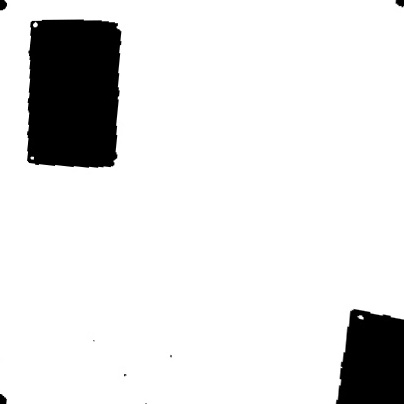
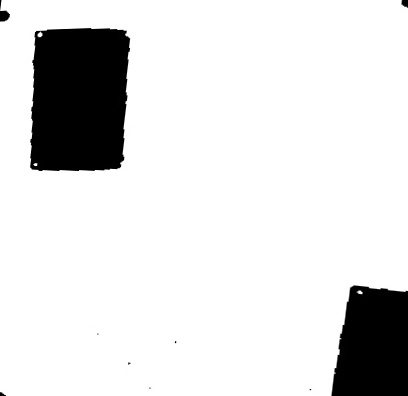
Kuch naya maybe

diff --git a/top_adjusted.py b/top_adjusted.py
@@ -1,0 +1,71 @@
+#!/usr/bin/env python
+
+import cv2
+import numpy as np
+from utils import get_four_points
+import math
+
+
+def final_pers_adj(name, name1) :
+
+    M2 = np.load("./Matrices/Base.npy")
+    # Reading the image.
+    im_src = cv2.imread(name)
+    im_base = cv2.imread("./input/Base.jpg")
+
+    # Show image and wait for 4 clicks.
+    pts_src = get_four_points(im_src,"Image")
+    pts_src = np.float32(pts_src)
+
+    pts_base = get_four_points(im_base, "Image")
+    pts_base = np.float32(pts_base)
+
+    #calculate dimensions
+    minx = 9999999
+    miny = 9999999
+    maxx = 0
+    maxy = 0
+    for i in range(0,4):
+        x = pts_base[i][0]
+        y = pts_base[i][1]
+        if x>maxx:
+            maxx = x
+        if x<minx:
+            minx = x
+        if y>maxy:
+            maxy = y
+        if y<miny:
+            miny = y
+
+    a = 4*int(maxx - minx)
+    b = 4*int(maxy - miny)
+
+    #finding size of complete image
+    cols = M2[1][0]-M2[0][0]
+    rows = M2[3][1]-M2[0][0]
+
+    #translateion works
+    xtranslate = -(pts_base[0][0]-M2[0][0])
+    ytranslate = (pts_base[0][1]-M2[0][1])
+    print(xtranslate," ",ytranslate)
+    if xtranslate<=10.0:
+        xtranslate = 0
+    if ytranslate<=10.0:
+        ytranslate = 0
+        
+    #normalise co-ordinates
+    for i in range(0,4):
+        pts_base[i][0] = 4*(pts_base[i][0] - minx)
+        pts_base[i][1] = 4*(pts_base[i][1] - miny)
+
+    # Calculate the homography
+    M = cv2.getPerspectiveTransform(pts_src, pts_base)
+
+    # Warp source image to destination
+    im_dst = cv2.warpPerspective(im_src, M, (a, b))
+
+    M1 = np.float32([[1,0,xtranslate],[0,1,ytranslate]])
+    im_fin = cv2.warpAffine(im_dst,M1,(int(cols),int(rows)))
+
+    cv2.imwrite(name1, im_fin)
+    cv2.waitKey(0)

diff --git a/save_top.py b/save_top.py
@@ -1,9 +1,24 @@
 from perspective_new import *
+from top_adjusted import *
+import cv2
+import numpy as np
+from utils import get_four_points
 
 def main(size):
+    im_base = cv2.imread("./input/Base.jpg")
+    print('mark complete base')
+    M = get_four_points(im_base, "Image")
+    for i in range(0,4):
+        M[i][0] = 4*M[i][0]
+        M[i][1] = 4*M[i][1]
+        print(i,": ",M[i][0]," ",M[i][1])
+
+    name = "./Matrices/Base.npy"
+    np.save(name,M);
+    print('Now mark for individual images')
     for i in range(1,size+1):
         name = "./input/C"+str(i)+"/bw.jpg"
-        name1 = "./input/C"+str(i)+"/pers2.jpg"
-        final_pers(name, name1)
+        name1 = "./input/C"+str(i)+"/perss2.jpg"
+        final_pers_adj(name, name1)
 
 main(4)
